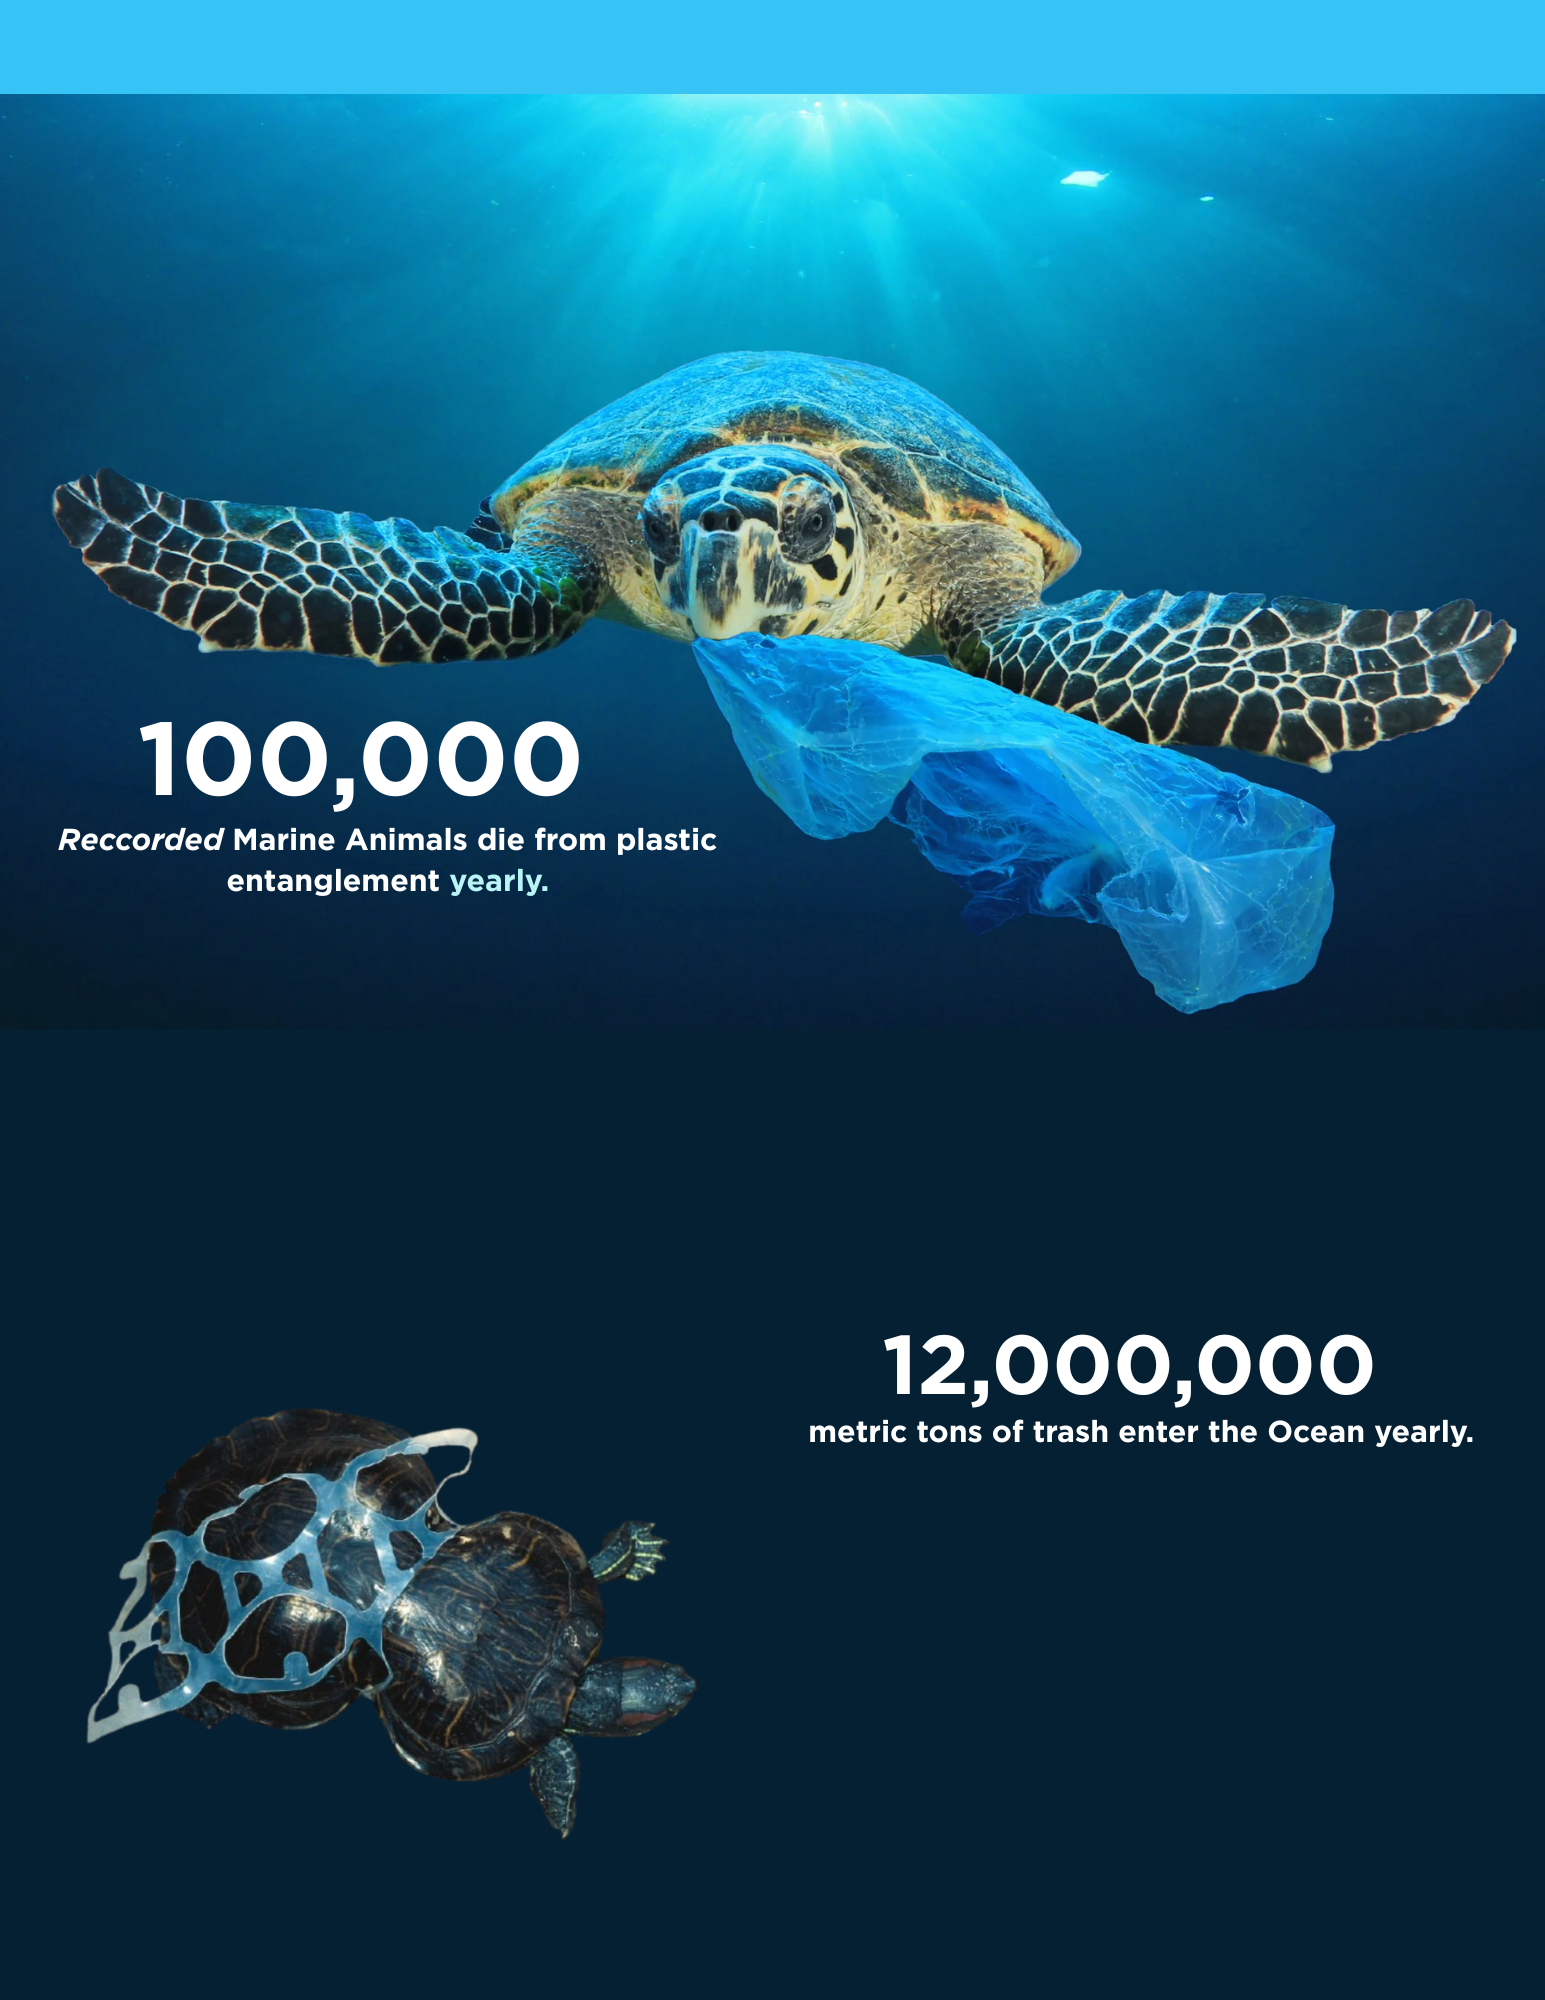
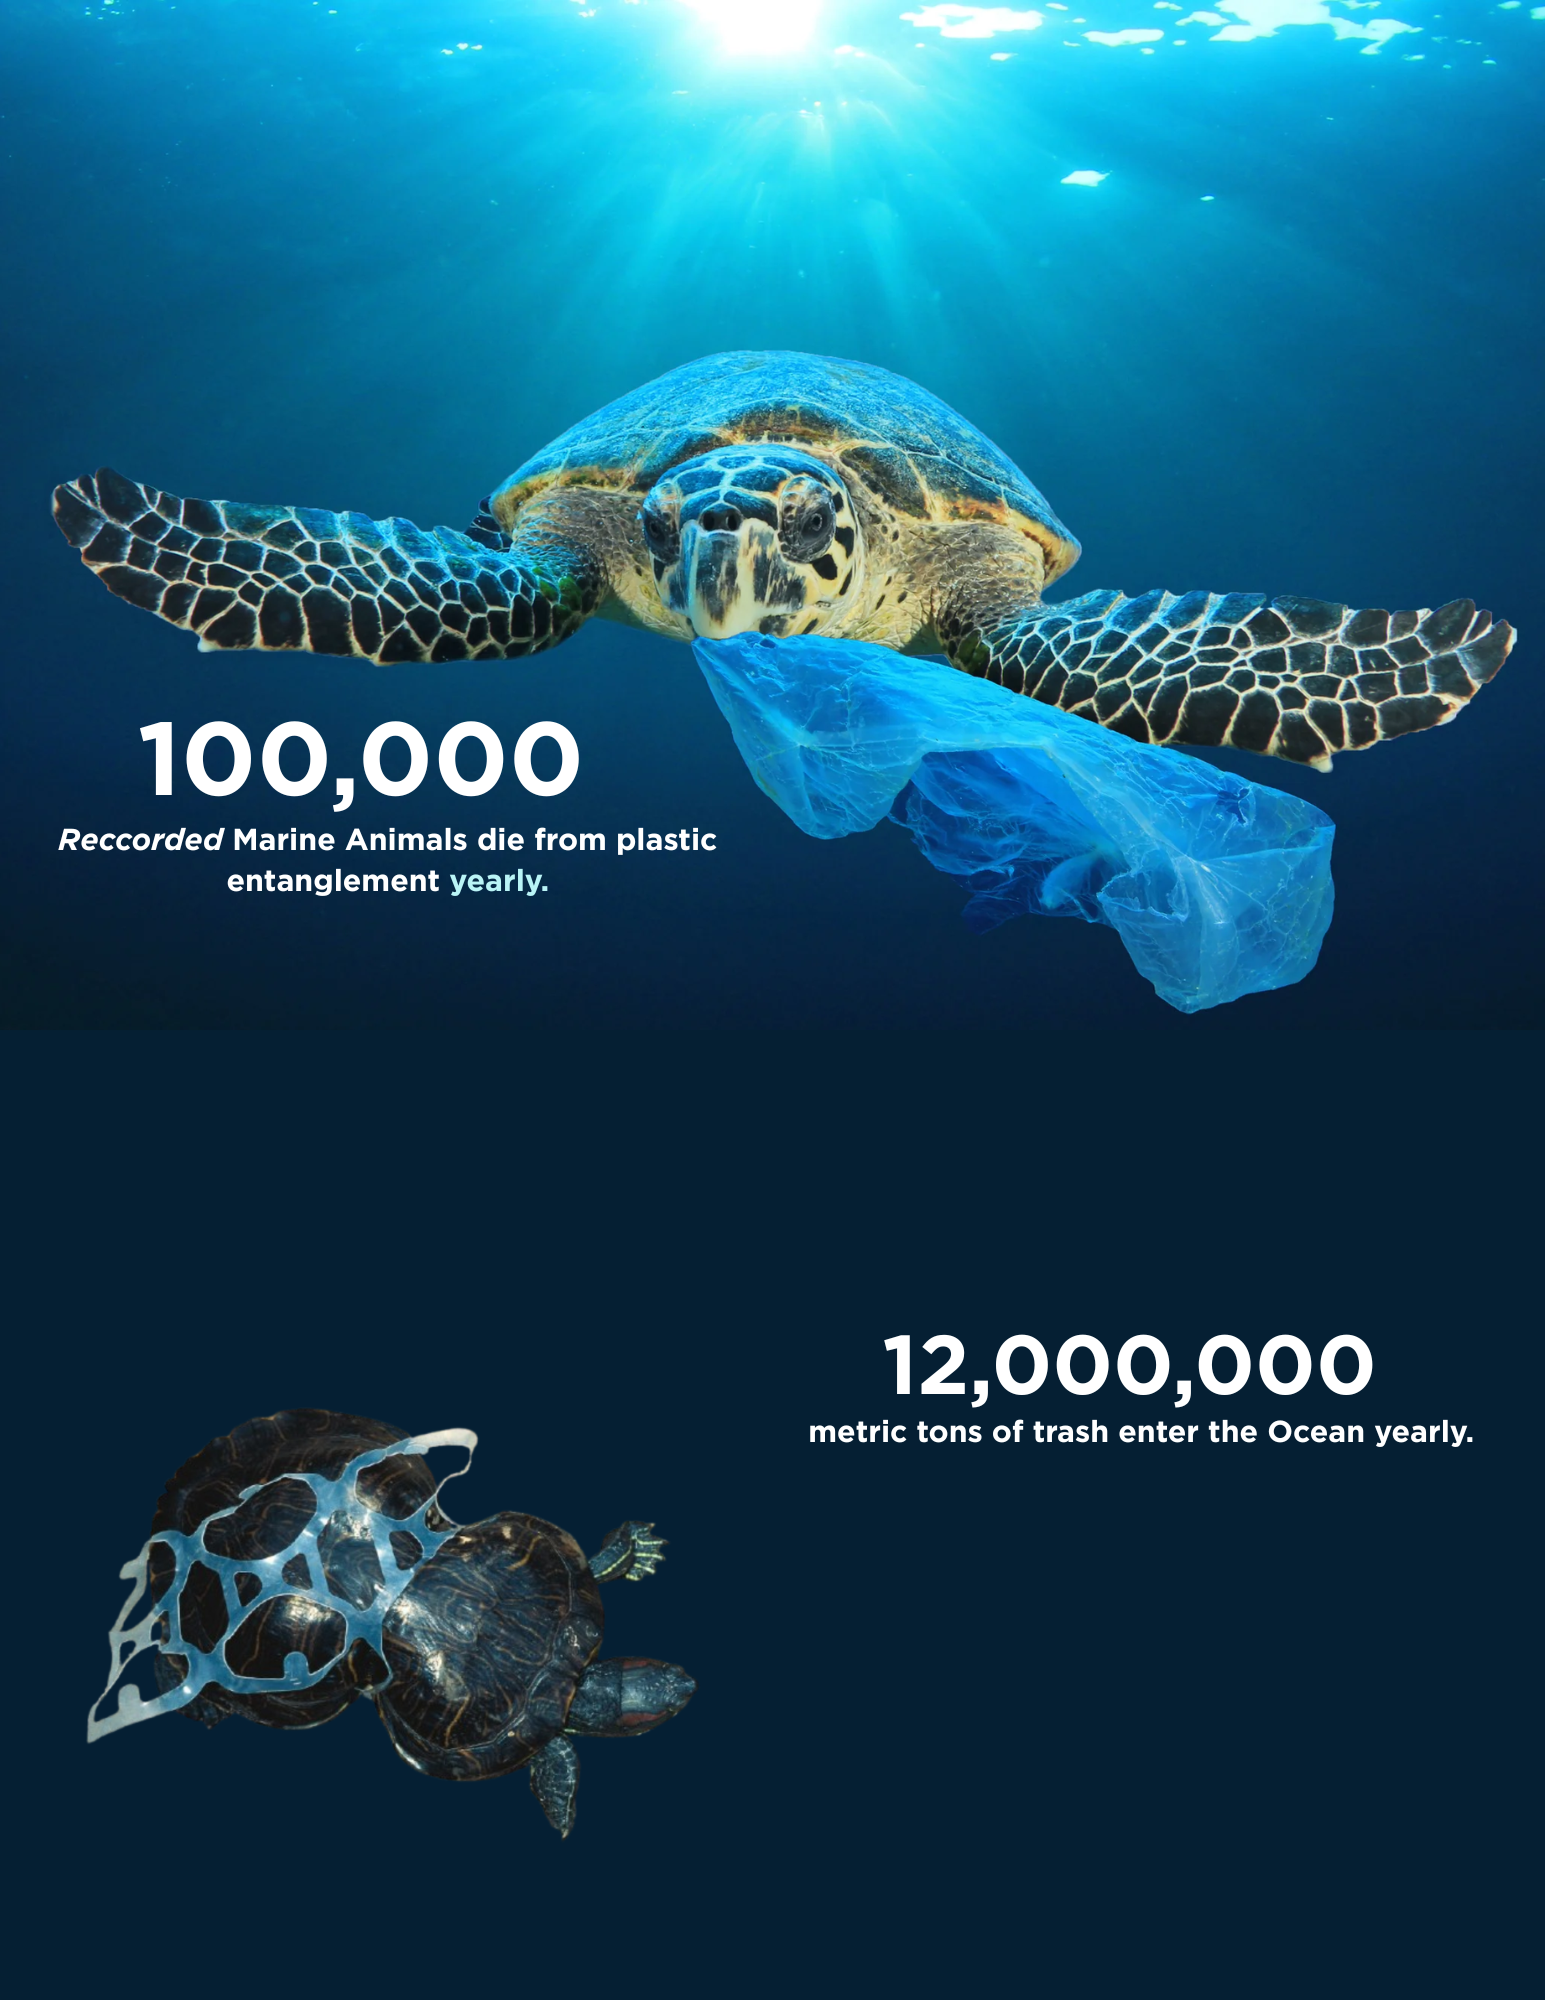
Done 2.0

diff --git a/teamcopy/styles.css b/teamcopy/styles.css
@@ -16,6 +16,17 @@
 }
 
 body {
+  opacity: 0;
+  transform: translateY(10px);
+  transition: opacity 1.4s ease-out, transform 1.4s ease-out;
+}
+
+body.loaded {
+  opacity: 1;
+  transform: translateY(0);
+}
+
+body {
   margin: 0;
   min-height: 100vh;
   font-family: "Space Grotesk", sans-serif;
@@ -28,7 +39,7 @@ body {
   cursor: url("./custom-cursor.png") 16 16, auto;
 }
 .panel-card:hover{
-  cursor: url("./custom-cursor.png") 16 16;
+  cursor: url("./custom-cursor.png") 16 16, auto;
 }
 
 
@@ -211,6 +222,18 @@ body::after {
 }
 
 .hero-image {
+  display: block;
+  width: 100%;
+  height: auto;
+}
+
+.footer-banner {
+  width: 100%;
+  overflow: hidden;
+  margin-top: 32px;
+}
+
+.footer-banner-image {
   display: block;
   width: 100%;
   height: auto;

diff --git a/teamcopy/index.html b/teamcopy/index.html
@@ -18,8 +18,9 @@
     />
     <link rel="stylesheet" href="./styles.css" />
   </head>
-  <body>
-
+  <body onclick = "playSound()">
+    <!-- Load Bubbles Sound Effect -->
+    <audio id="bubbleSound" preload = "auto" src = "./bubbles.mp3"></audio>
     <!-- Animated particle/wave background -->
     <canvas id="bgCanvas"></canvas>
 
@@ -203,8 +204,21 @@
           </div>
         </section>
       </section>
-    </div>
 
+    </div>
+    <div class="footer-banner">
+      <img
+        src="./bottom-header.jpg"
+        alt="Marine pollution footer image"
+        class="footer-banner-image"
+      />
+    </div>
+    <script>
+      const bubblesSound = document.getElementById("bubbleSound");
+      function playSound(){
+        bubblesSound.play();
+      }
+    </script>
     <script
       src="https://unpkg.com/leaflet@1.9.4/dist/leaflet.js"
       integrity="sha256-20nQCchB9co0qIjJZRGuk2/Z9VM+kNiyxNV1lvTlZBo="

diff --git a/teamcopy/src/app.js b/teamcopy/src/app.js
@@ -535,6 +535,10 @@ async function initMap() {
     "Map ready. Every dot is a microplastics sample from the dataset. Click anywhere to inspect the nearest one.";
 }
 
+window.addEventListener ("load", () => {
+  document.body.classList.add("loaded");
+});
+
 initMap().catch((error) => {
   reportTitle.textContent = "Map failed to load";
   statusNote.textContent =